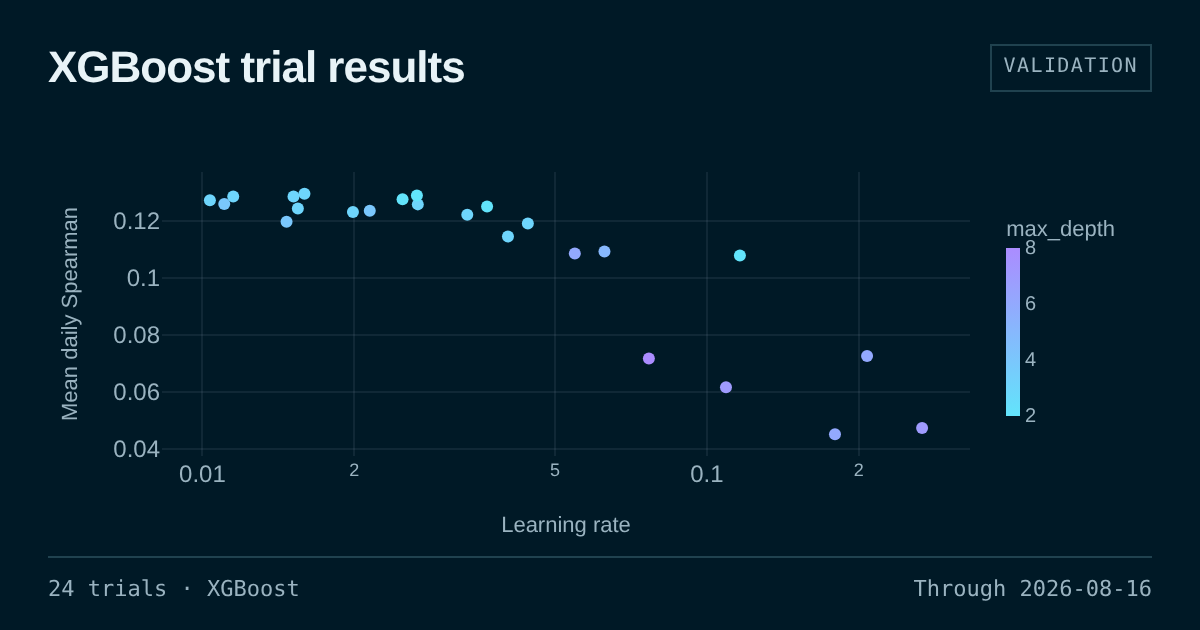
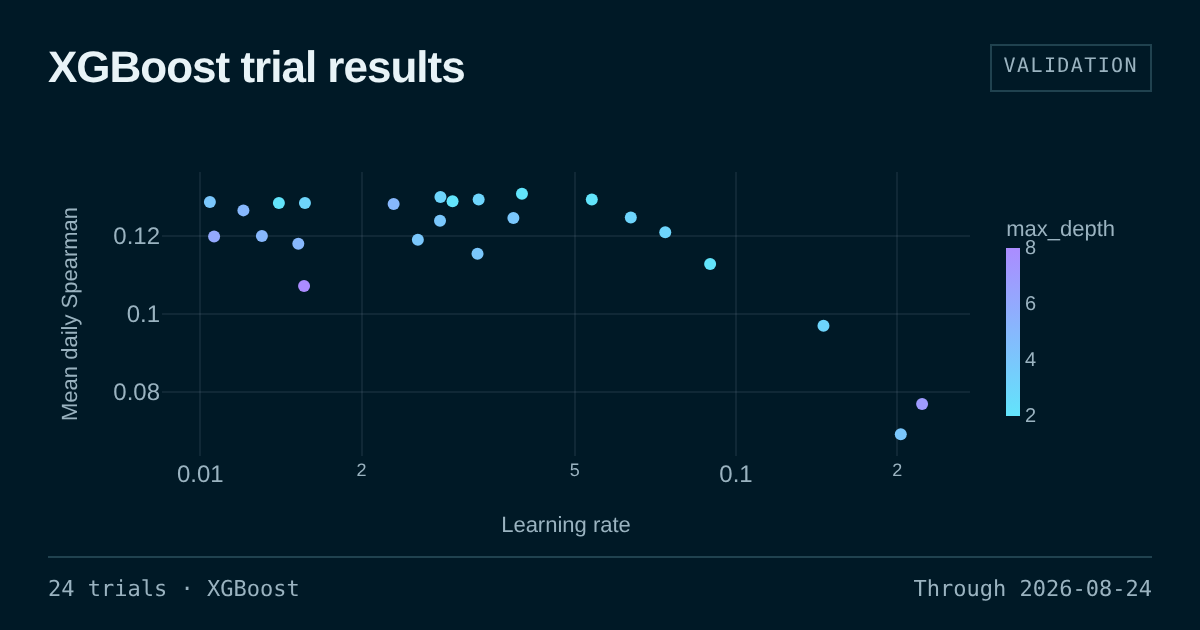
Recipes write their outputs to out/ without an environment variable (#10)
Cloud runs start in the project folder, so the runner's CROWDCENT_OUT_DIR
always equalled the recipes' own default out/. The tests and the thumbnail
worker already run each notebook from its temporary folder.

diff --git a/tests/test_recipes.py b/tests/test_recipes.py
@@ -62,7 +62,6 @@ class RecipeTests(unittest.TestCase):
             {
                 "PYTHONPATH": os.pathsep.join((str(hooks), str(ROOT / "tests"))),
                 "CROWDCENT_API_KEY": "test-only",
-                "CROWDCENT_OUT_DIR": str(work / "artifacts" / "output"),
                 "COOKBOOK_TEST_SCENARIO": scenario,
                 "OMP_NUM_THREADS": "2",
                 "OPENBLAS_NUM_THREADS": "2",
@@ -108,14 +107,14 @@ class RecipeTests(unittest.TestCase):
     def test_hello_writes_a_run_artifact(self):
         work, _ = self.export("hello_cloud")
         self.assertEqual(
-            json.loads((work / "artifacts/output/hello.json").read_text()),
+            json.loads((work / "out/hello.json").read_text()),
             {"greeting": "hello", "run": "test-run"},
         )
 
     def test_ranking_trains_predicts_and_serializes_a_submission(self):
         work, calls = self.export("hyperliquid_ranking")
         self.assertIn({"kind": "submission", "rows": 8, "slot": "1"}, calls)
-        self.assertTrue((work / "artifacts/output/predictions.csv").exists())
+        self.assertTrue((work / "out/predictions.csv").exists())
 
     def test_ranking_preview_does_not_submit(self):
         _, calls = self.export("hyperliquid_ranking", cloud=False)
@@ -148,9 +147,9 @@ class RecipeTests(unittest.TestCase):
         work, _ = self.export(
             "optuna_tuning", args=("--trials=2", "--depth_max=2", "--name=smoke")
         )
-        self.assertTrue((work / "artifacts/output/models/smoke.joblib").exists())
+        self.assertTrue((work / "out/models/smoke.joblib").exists())
         self.assertEqual(
-            len((work / "artifacts/output/trials/smoke.csv").read_text().splitlines()),
+            len((work / "out/trials/smoke.csv").read_text().splitlines()),
             3,
         )
 

diff --git a/recipes/optuna_tuning/optuna_tuning.py b/recipes/optuna_tuning/optuna_tuning.py
@@ -227,10 +227,10 @@ def _(mo, pl, px, study):
 
 
 @app.cell
-def _(XGBRegressor, data, features, joblib, os, pathlib, search, study, trials):
+def _(XGBRegressor, data, features, joblib, pathlib, search, study, trials):
     model = XGBRegressor(**study.best_params, n_jobs=2)
     model.fit(data[features].to_numpy(), data[search["target"]].to_numpy())
-    out = pathlib.Path(os.environ.get("CROWDCENT_OUT_DIR", "out"))
+    out = pathlib.Path("out")
     for folder in ("models", "trials"):
         (out / folder).mkdir(parents=True, exist_ok=True)
     joblib.dump(model, out / "models" / f"{search['name']}.joblib")

diff --git a/recipes/hello_cloud/hello_cloud.py b/recipes/hello_cloud/hello_cloud.py
@@ -55,8 +55,8 @@ def _(mo, os):
 
 
 @app.cell
-def _(json, os, pathlib, run_id):
-    out = pathlib.Path(os.environ.get("CROWDCENT_OUT_DIR", "out"))
+def _(json, pathlib, run_id):
+    out = pathlib.Path("out")
     out.mkdir(parents=True, exist_ok=True)
     (out / "hello.json").write_text(json.dumps({"greeting": "hello", "run": run_id}))
     print(f"wrote {out / 'hello.json'}")

diff --git a/recipes/hyperliquid_ranking/hyperliquid_ranking.py b/recipes/hyperliquid_ranking/hyperliquid_ranking.py
@@ -112,10 +112,10 @@ def _(features, inference_data, model, pl):
 
 
 @app.cell
-def _(os, predictions):
+def _(predictions):
     from pathlib import Path
 
-    output = Path(os.environ.get("CROWDCENT_OUT_DIR", "out"))
+    output = Path("out")
     output.mkdir(parents=True, exist_ok=True)
     predictions.write_csv(output / "predictions.csv")
     return

diff --git a/scripts/thumbnails.py b/scripts/thumbnails.py
@@ -240,7 +240,6 @@ def worker(slug, work, cache):
     )
     os.environ.pop("CROWDCENT_RUN_ID", None)
     os.environ.pop("MARIMO_SCRIPT_EDIT", None)
-    os.environ["CROWDCENT_OUT_DIR"] = str(work / "out")
     sys.path.insert(0, str(work))
     notebook = work / f"{slug}.py"
     sys.argv = [str(notebook), *spec.get("args", [])]

diff --git a/CONTRIBUTING.md b/CONTRIBUTING.md
@@ -73,7 +73,7 @@ args = ["--account=crowdcent"]
 ```
 
 `output` is `figure` (a Plotly chart named by `figure`), a relative `.csv`
-table, or a small `.json` artifact under `CROWDCENT_OUT_DIR`. Name the actual
+table, or a small `.json` artifact under `out/`. Name the actual
 figure variable in the notebook; no thumbnail-only computation is needed.
 Optional presentation settings include `badge`, `x_label`, `y_label`,
 `y_suffix`, `legend`/`legend_prefix`, and CSV `sort`/`columns`. Keep labels accurate and
